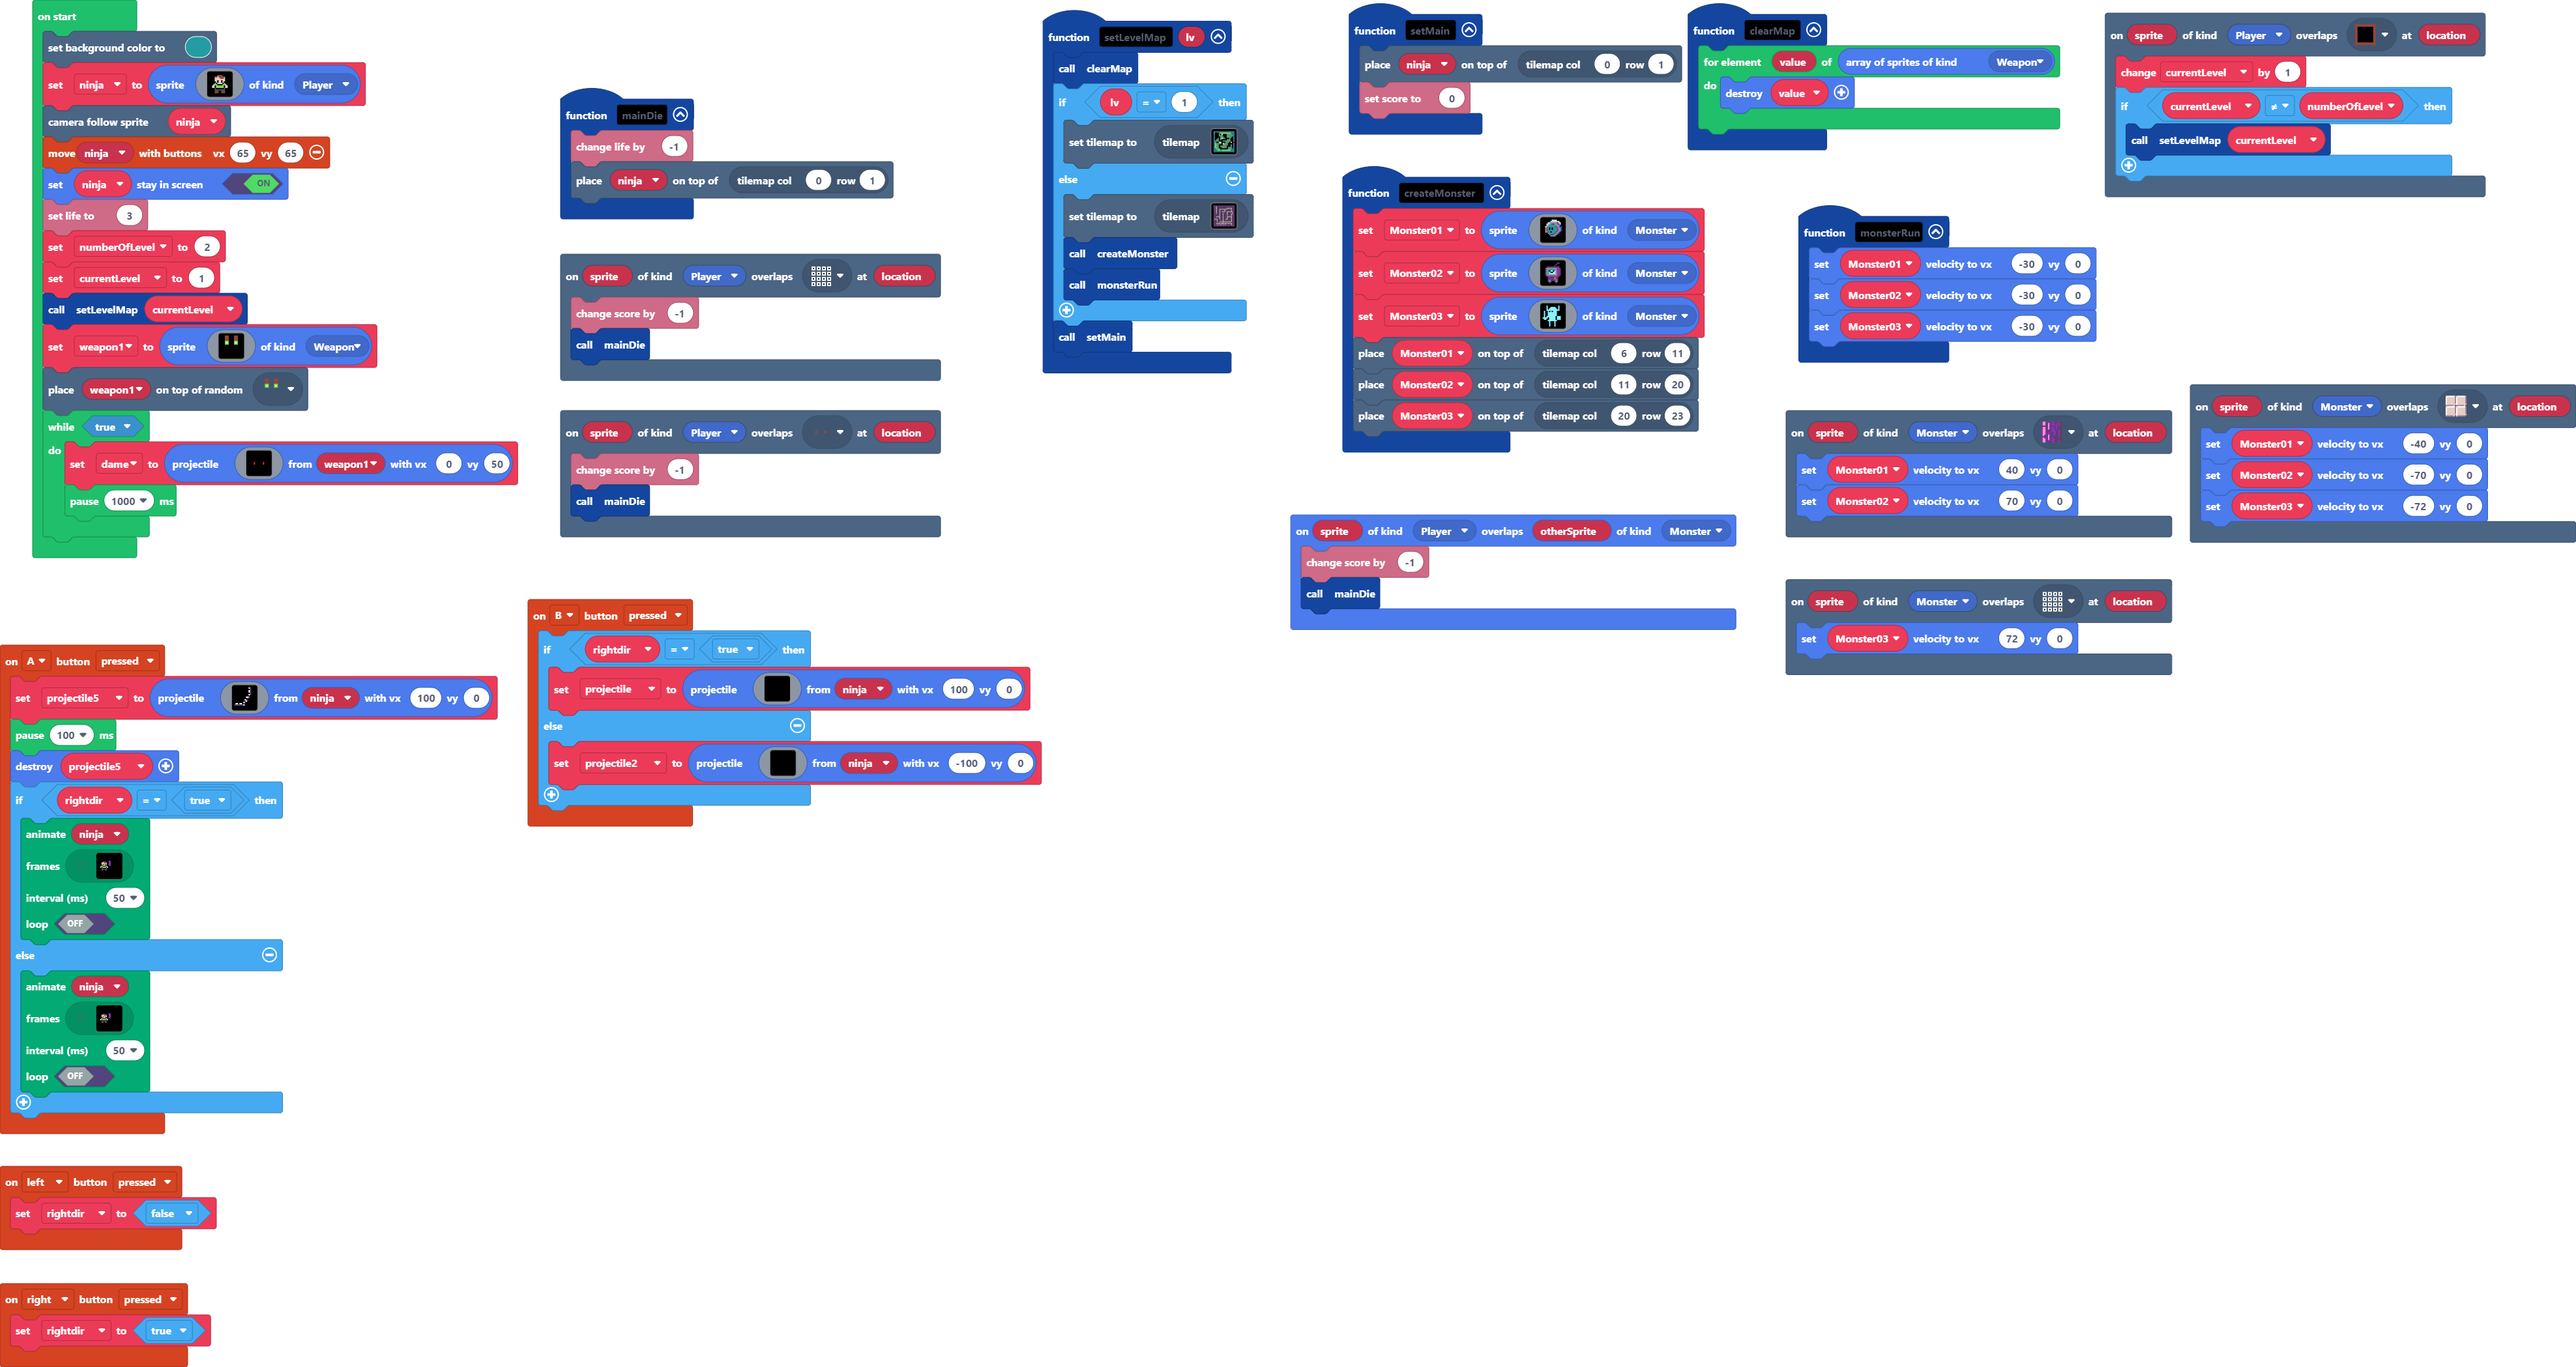
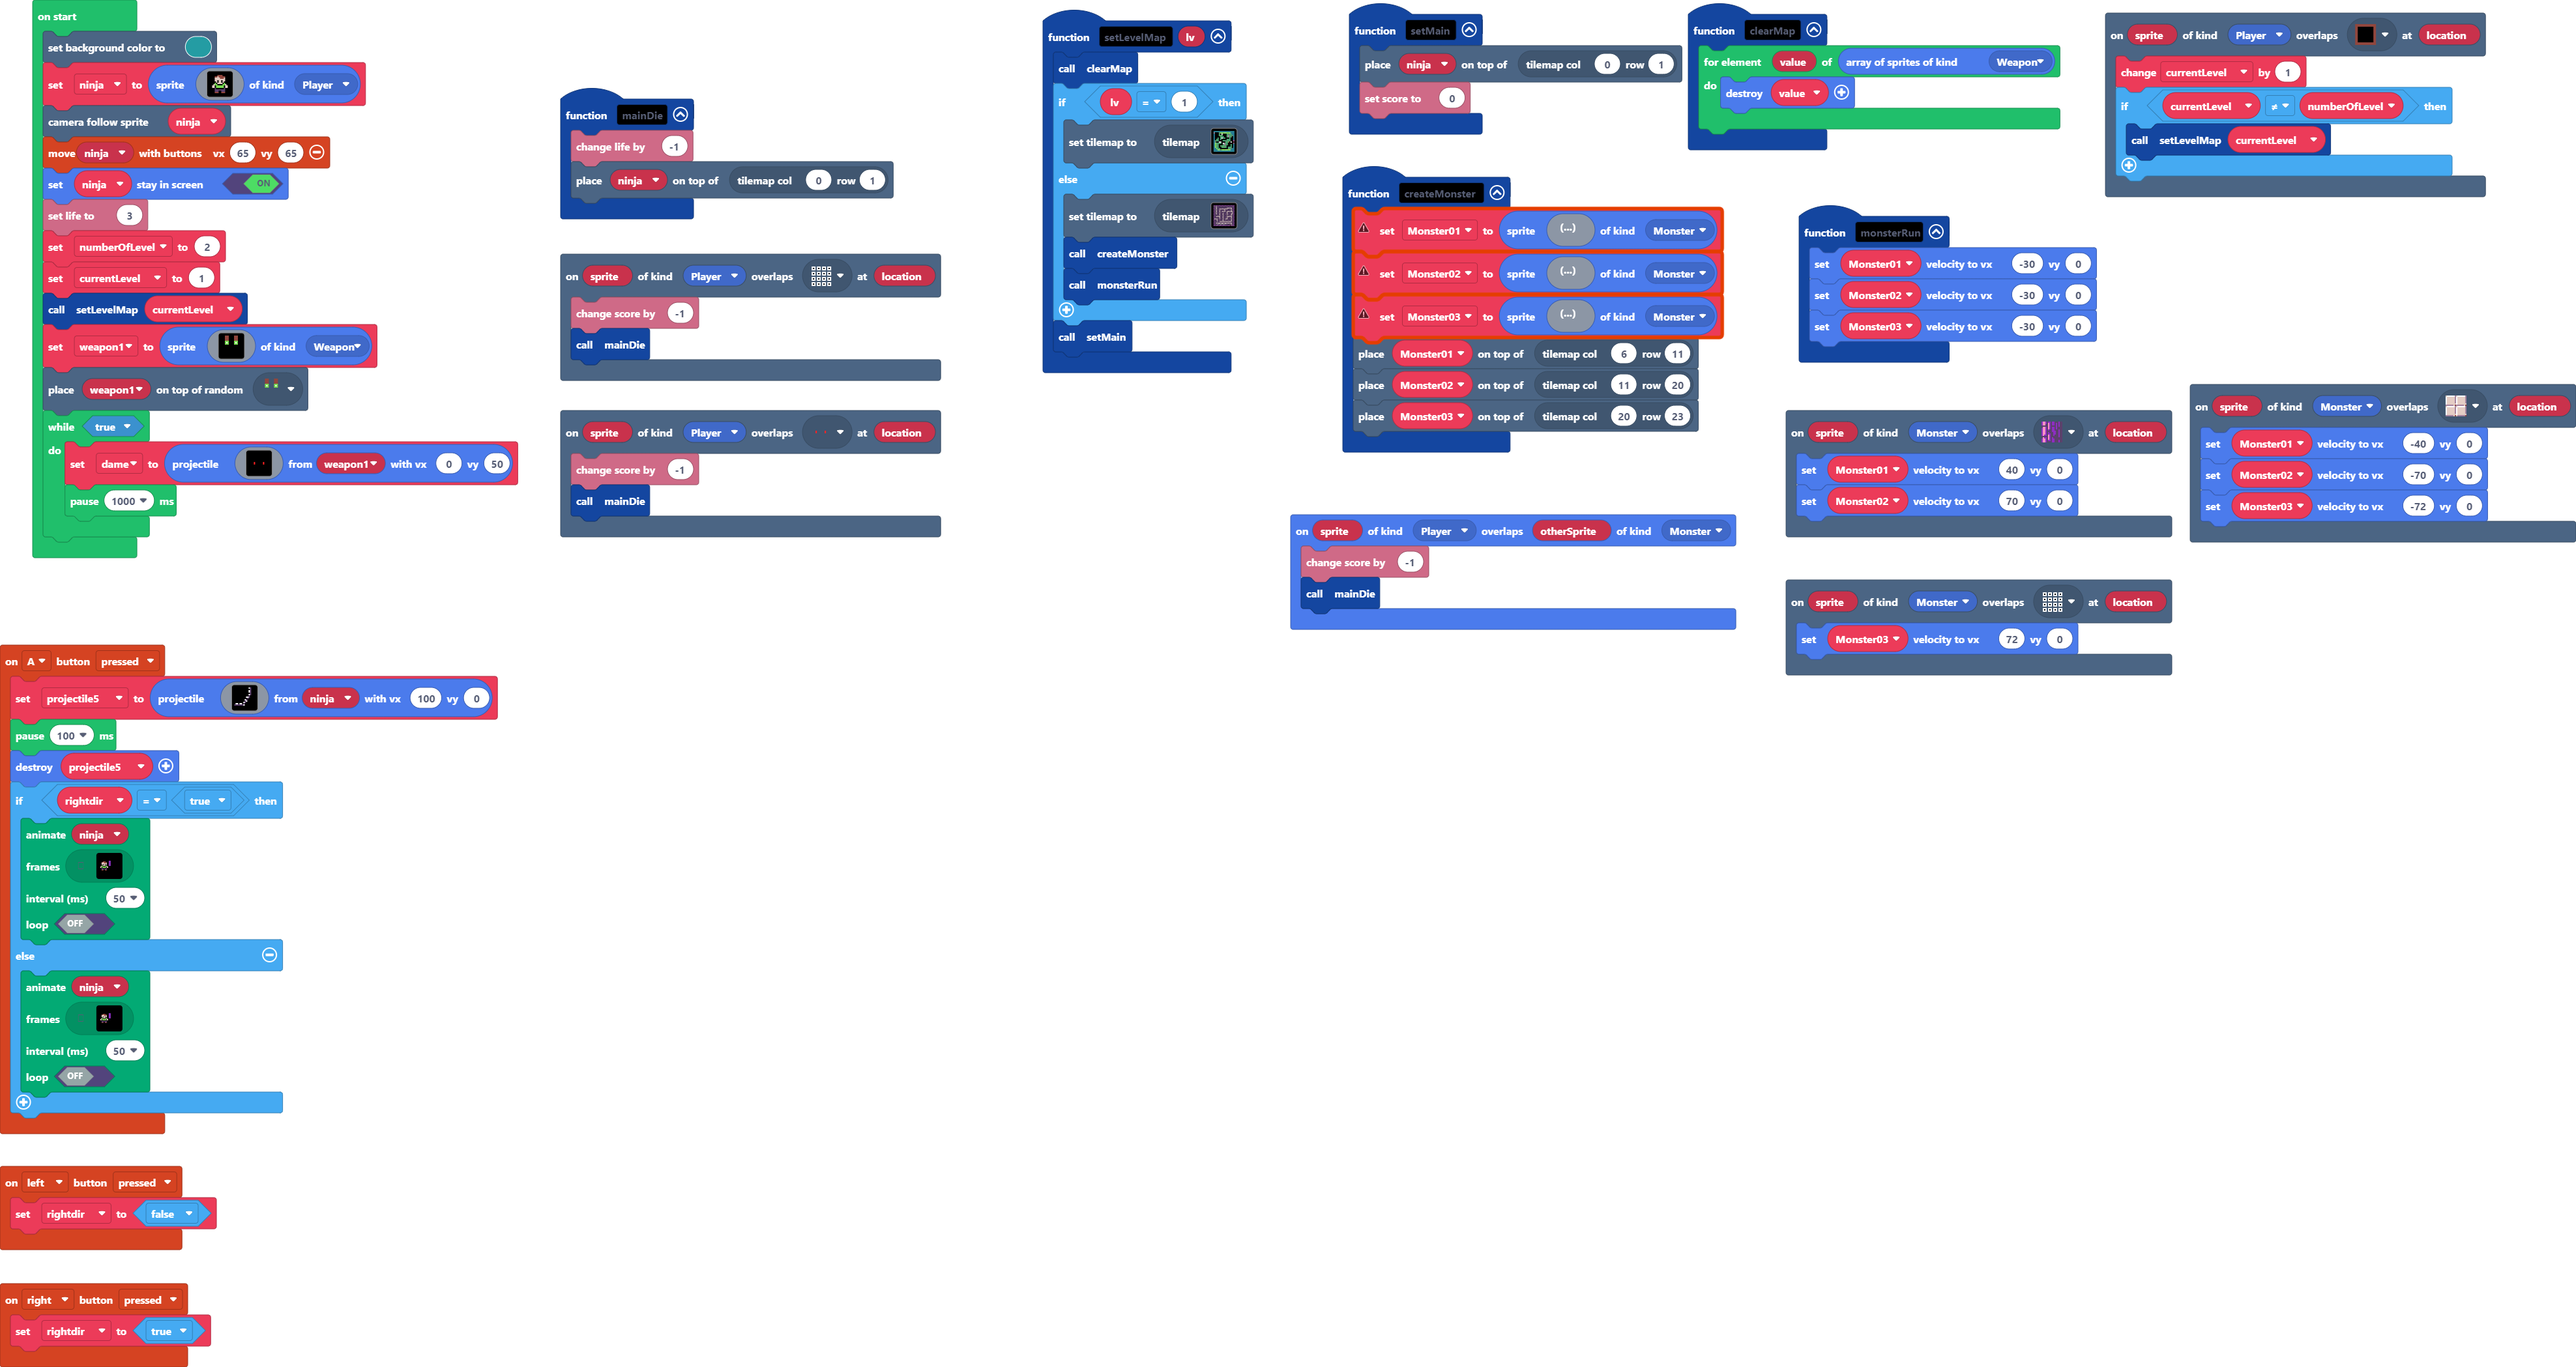
Update main.blocks, main.ts, tilemap.g.jres, tilemap.g.ts, images.g.jres, images.g.ts

diff --git a/tilemap.g.ts b/tilemap.g.ts
@@ -93,6 +93,34 @@ namespace myTiles {
 . . . . . . . . . . . . . . . . 
 . . . . . . . . . . . . . . . . 
 `, [myTiles.transparency16], TileScale.Sixteen);
+            case "tilemap1":
[1 lines of base64/hex data omitted]
+2222222222222222222222222
+...2....................2
+2..2....................2
+2..2............222222..2
+2..2...2222222222....2..2
+2..2...2.....2.......2..2
+2..2...2.....2.......2..2
+2..2...2..2222..2222222.2
+2..2...2........2.....2.2
+2..2...2...2....2.....2.2
+2..2...2...2....2....22.2
+2......2...2....2....2..2
+2......2...2.........2..2
+2..22222...2....222222..2
+2......2...2....2....2..2
+2......2...2....2....2..2
+22222..2...2..222....2..2
+2...2......2.........2..2
+2...2......2.........2..2
+2...2..222222222222222..2
+2.......................2
+2..2222222222222222222..2
+2....................2..2
+2....................2..2
+22222222222222222222.2222
+`, [myTiles.transparency16,sprites.dungeon.darkGroundNorthWest0,sprites.dungeon.purpleOuterNorthWest,sprites.dungeon.purpleOuterNorth0,sprites.dungeon.purpleOuterNorthEast,sprites.dungeon.purpleOuterEast0,sprites.dungeon.purpleOuterSouthWest,sprites.dungeon.purpleOuterSouth0,sprites.dungeon.purpleOuterSouthEast,sprites.dungeon.purpleOuterWest1,sprites.dungeon.purpleOuterWest2,sprites.dungeon.stairWest,sprites.dungeon.purpleOuterSouth2,sprites.dungeon.darkGroundSouthWest0,sprites.dungeon.darkGroundWest,sprites.dungeon.darkGroundNorth,sprites.dungeon.darkGroundNorthEast0,sprites.dungeon.darkGroundSouthEast0,sprites.dungeon.darkGroundSouth,sprites.dungeon.darkGroundEast,sprites.dungeon.darkGroundCenter,myTiles.tile1,myTiles.tile5,sprites.dungeon.purpleOuterSouth1,sprites.dungeon.floorLight0,sprites.dungeon.darkGroundSouthWest1], TileScale.Sixteen);
             case "map-demo":
[1 lines of base64/hex data omitted]
 2 2 2 2 2 2 2 2 2 2 2 2 2 2 2 2 
@@ -112,34 +140,6 @@ namespace myTiles {
 2 2 2 2 2 2 2 2 2 2 2 2 2 2 2 2 
 2 2 2 2 2 2 2 2 2 2 2 2 2 2 2 2 
 `, [myTiles.transparency16,sprites.castle.tileGrass2,sprites.castle.tileGrass1,sprites.builtin.forestTiles0,sprites.swamp.swampTile1,sprites.swamp.swampTile0,sprites.swamp.swampTile2,sprites.castle.saplingPine,sprites.castle.shrub,sprites.castle.rock0,sprites.castle.rock2,sprites.dungeon.stairLarge,sprites.dungeon.purpleOuterWest2,sprites.builtin.forestTiles1,sprites.builtin.forestTiles3,sprites.builtin.forestTiles2,myTiles.tile1,myTiles.tile2,myTiles.tile5], TileScale.Sixteen);
-            case "tilemap1":
[1 lines of base64/hex data omitted]
-2222222222222222222222222
-...2....................2
-2..2....................2
-2..2............222222..2
-2..2...2222222222....2..2
-2..2...2.....2.......2..2
-2..2...2.....2.......2..2
-2..2...2..2222..2222222.2
-2..2...2........2.....2.2
-2..2...2...2....2.....2.2
-2......2...2....2....22.2
-...........2....2....2..2
-2......2...2.........2..2
-2..22222...2....222222..2
-2......2...2....2....2..2
-2......2...2....2....2..2
-22222..2...2..222....2..2
-2...2......2.........2..2
-2...2......2.........2..2
-2...2..222222222222222..2
-2.......................2
-2..2222222222222222222..2
-2....................2..2
-2....................2..2
-22222222222222222222.2222
-`, [myTiles.transparency16,sprites.dungeon.darkGroundNorthWest0,sprites.dungeon.purpleOuterNorthWest,sprites.dungeon.purpleOuterNorth0,sprites.dungeon.purpleOuterNorthEast,sprites.dungeon.purpleOuterEast0,sprites.dungeon.purpleOuterSouthWest,sprites.dungeon.purpleOuterSouth0,sprites.dungeon.purpleOuterSouthEast,sprites.dungeon.purpleOuterWest1,sprites.dungeon.purpleOuterWest2,sprites.dungeon.stairWest,sprites.dungeon.purpleOuterSouth2,sprites.dungeon.darkGroundSouthWest0,sprites.dungeon.darkGroundWest,sprites.dungeon.darkGroundNorth,sprites.dungeon.darkGroundNorthEast0,sprites.dungeon.darkGroundSouthEast0,sprites.dungeon.darkGroundSouth,sprites.dungeon.darkGroundEast,sprites.dungeon.darkGroundCenter,myTiles.tile1,myTiles.tile5,sprites.dungeon.purpleOuterSouth1,sprites.dungeon.floorLight0,sprites.dungeon.darkGroundSouthWest1,sprites.dungeon.darkGroundSouthEast1], TileScale.Sixteen);
         }
         return null;
     })

diff --git a/images.g.ts b/images.g.ts
@@ -155,63 +155,6 @@ c c c c c c c c c c c c c c c c
 . . . . . . . . . . . . . . . . 
 . . . . . . . . . . . . . . . . 
 `;
-            case "image8":
-            case "monster1":return img`
-. . . . . . . d d d d . . . . . 
-. . . . . . 9 9 9 9 d d d . . . 
-. . . . d 9 b b b b b 8 d d . . 
-. . . d 9 b 6 e c b b b 8 d . . 
-. . . 9 b 6 6 6 6 6 b b b 8 . . 
-. . d b 6 6 6 6 6 6 c b b 8 8 . 
-. . b e 6 f 6 f 6 6 6 e b b 8 . 
-. . b e 6 f 6 f 6 6 6 e b b 8 . 
-. . b e 6 6 6 6 6 6 6 c b b 8 . 
-. . b b c 6 f 6 6 6 c b b 8 . . 
-. . . . b 6 6 6 6 c b b 8 . . . 
-. . . . . b c c c b b 8 . . . . 
-. . . . . . b b b b . . . . . . 
-. . . . . . . . . . . . . . . . 
-. . . . . . . . . . . . . . . . 
-. . . . . . . . . . . . . . . . 
-`;
-            case "image9":
-            case "monster2":return img`
-. . . . . . . . . . . c c . . . 
-. . . . . . . . . . c . . . . . 
-. . . . . . . . . c . . . . . . 
-. . . c c c c c c c c c c . . . 
-. . c b b b b b b b b a a c . . 
-. . c b 6 6 6 6 6 6 b a a c . . 
-. . c b 6 f 9 9 f 9 b a a c . . 
-. . c b 6 9 f f 9 9 b a a c . . 
-. . c b 6 9 9 9 9 9 b a a c . . 
-. . c b b b b b b b b a a c . . 
-. . . c e e e e e e e e c . . . 
-. . . . c a 8 a 8 b e c . . . . 
-. . . . c 8 a 8 a b e c . . . . 
-. . . . c b c c c c b c . . . . 
-. . . . c b c . . c b c . . . . 
-. . . . . c . . . . c . . . . . 
-`;
-            case "image10":
-            case "monster3":return img`
-. . . 9 . . . . . . . . 9 . . . 
-. . . 9 . . 9 9 9 9 . . 9 . . . 
-. . . 9 . 9 9 9 9 9 9 . 9 . . . 
-. . . 9 9 9 9 9 9 9 9 9 9 . . . 
-. 9 . . 9 f 9 f 9 9 9 . . . . . 
-. 9 . . 9 9 9 9 9 9 9 . . . . . 
-. 9 . . 9 9 9 9 9 9 9 . . . . . 
-. 9 . . 9 9 9 9 9 9 9 . . . . . 
-. 9 . 9 9 9 9 9 9 9 f 9 9 9 . . 
-9 9 9 9 f 9 9 9 9 9 f 9 9 9 . . 
-. 9 9 f f 9 9 9 9 9 f 9 9 9 . . 
-. . . . 9 9 9 9 9 9 9 . . . . . 
-. . . . . 9 . . . 9 . . . . . . 
-. . . . . 9 . . . 9 . . . . . . 
-. . . . . 9 . . . 9 . . . . . . 
-. . . . . 9 . . . 9 . . . . . . 
-`;
         }
         return null;
     })

diff --git a/main.ts b/main.ts
@@ -10,13 +10,6 @@ scene.onOverlapTile(SpriteKind.Player, assets.tile`myTile0`, function (sprite, l
         setLevelMap(currentLevel)
     }
 })
-controller.B.onEvent(ControllerButtonEvent.Pressed, function () {
-    if (rightdir == true) {
-        projectile = sprites.createProjectileFromSprite(assets.image`phi_tieu`, ninja, 100, 0)
-    } else {
-        projectile2 = sprites.createProjectileFromSprite(assets.image`phi_tieu`, ninja, -100, 0)
-    }
-})
 function monsterRun () {
     Monster01.setVelocity(-30, 0)
     Monster02.setVelocity(-30, 0)
@@ -78,9 +71,9 @@ sprites.onOverlap(SpriteKind.Player, SpriteKind.Monster, function (sprite, other
     mainDie()
 })
 function createMonster () {
-    Monster01 = sprites.create(assets.image`monster1`, SpriteKind.Monster)
-    Monster02 = sprites.create(assets.image`monster2`, SpriteKind.Monster)
-    Monster03 = sprites.create(assets.image`monster3`, SpriteKind.Monster)
+    Monster01 = sprites.create(, SpriteKind.Monster)
+    Monster02 = sprites.create(, SpriteKind.Monster)
+    Monster03 = sprites.create(, SpriteKind.Monster)
     tiles.placeOnTile(Monster01, tiles.getTileLocation(6, 11))
     tiles.placeOnTile(Monster02, tiles.getTileLocation(11, 20))
     tiles.placeOnTile(Monster03, tiles.getTileLocation(20, 23))
@@ -121,13 +114,11 @@ function clearMap () {
         value.destroy()
     }
 }
+let rightdir = false
 let projectile5: Sprite = null
 let Monster03: Sprite = null
 let Monster02: Sprite = null
 let Monster01: Sprite = null
-let projectile2: Sprite = null
-let projectile: Sprite = null
-let rightdir = false
 let dame: Sprite = null
 let currentLevel = 0
 let numberOfLevel = 0
